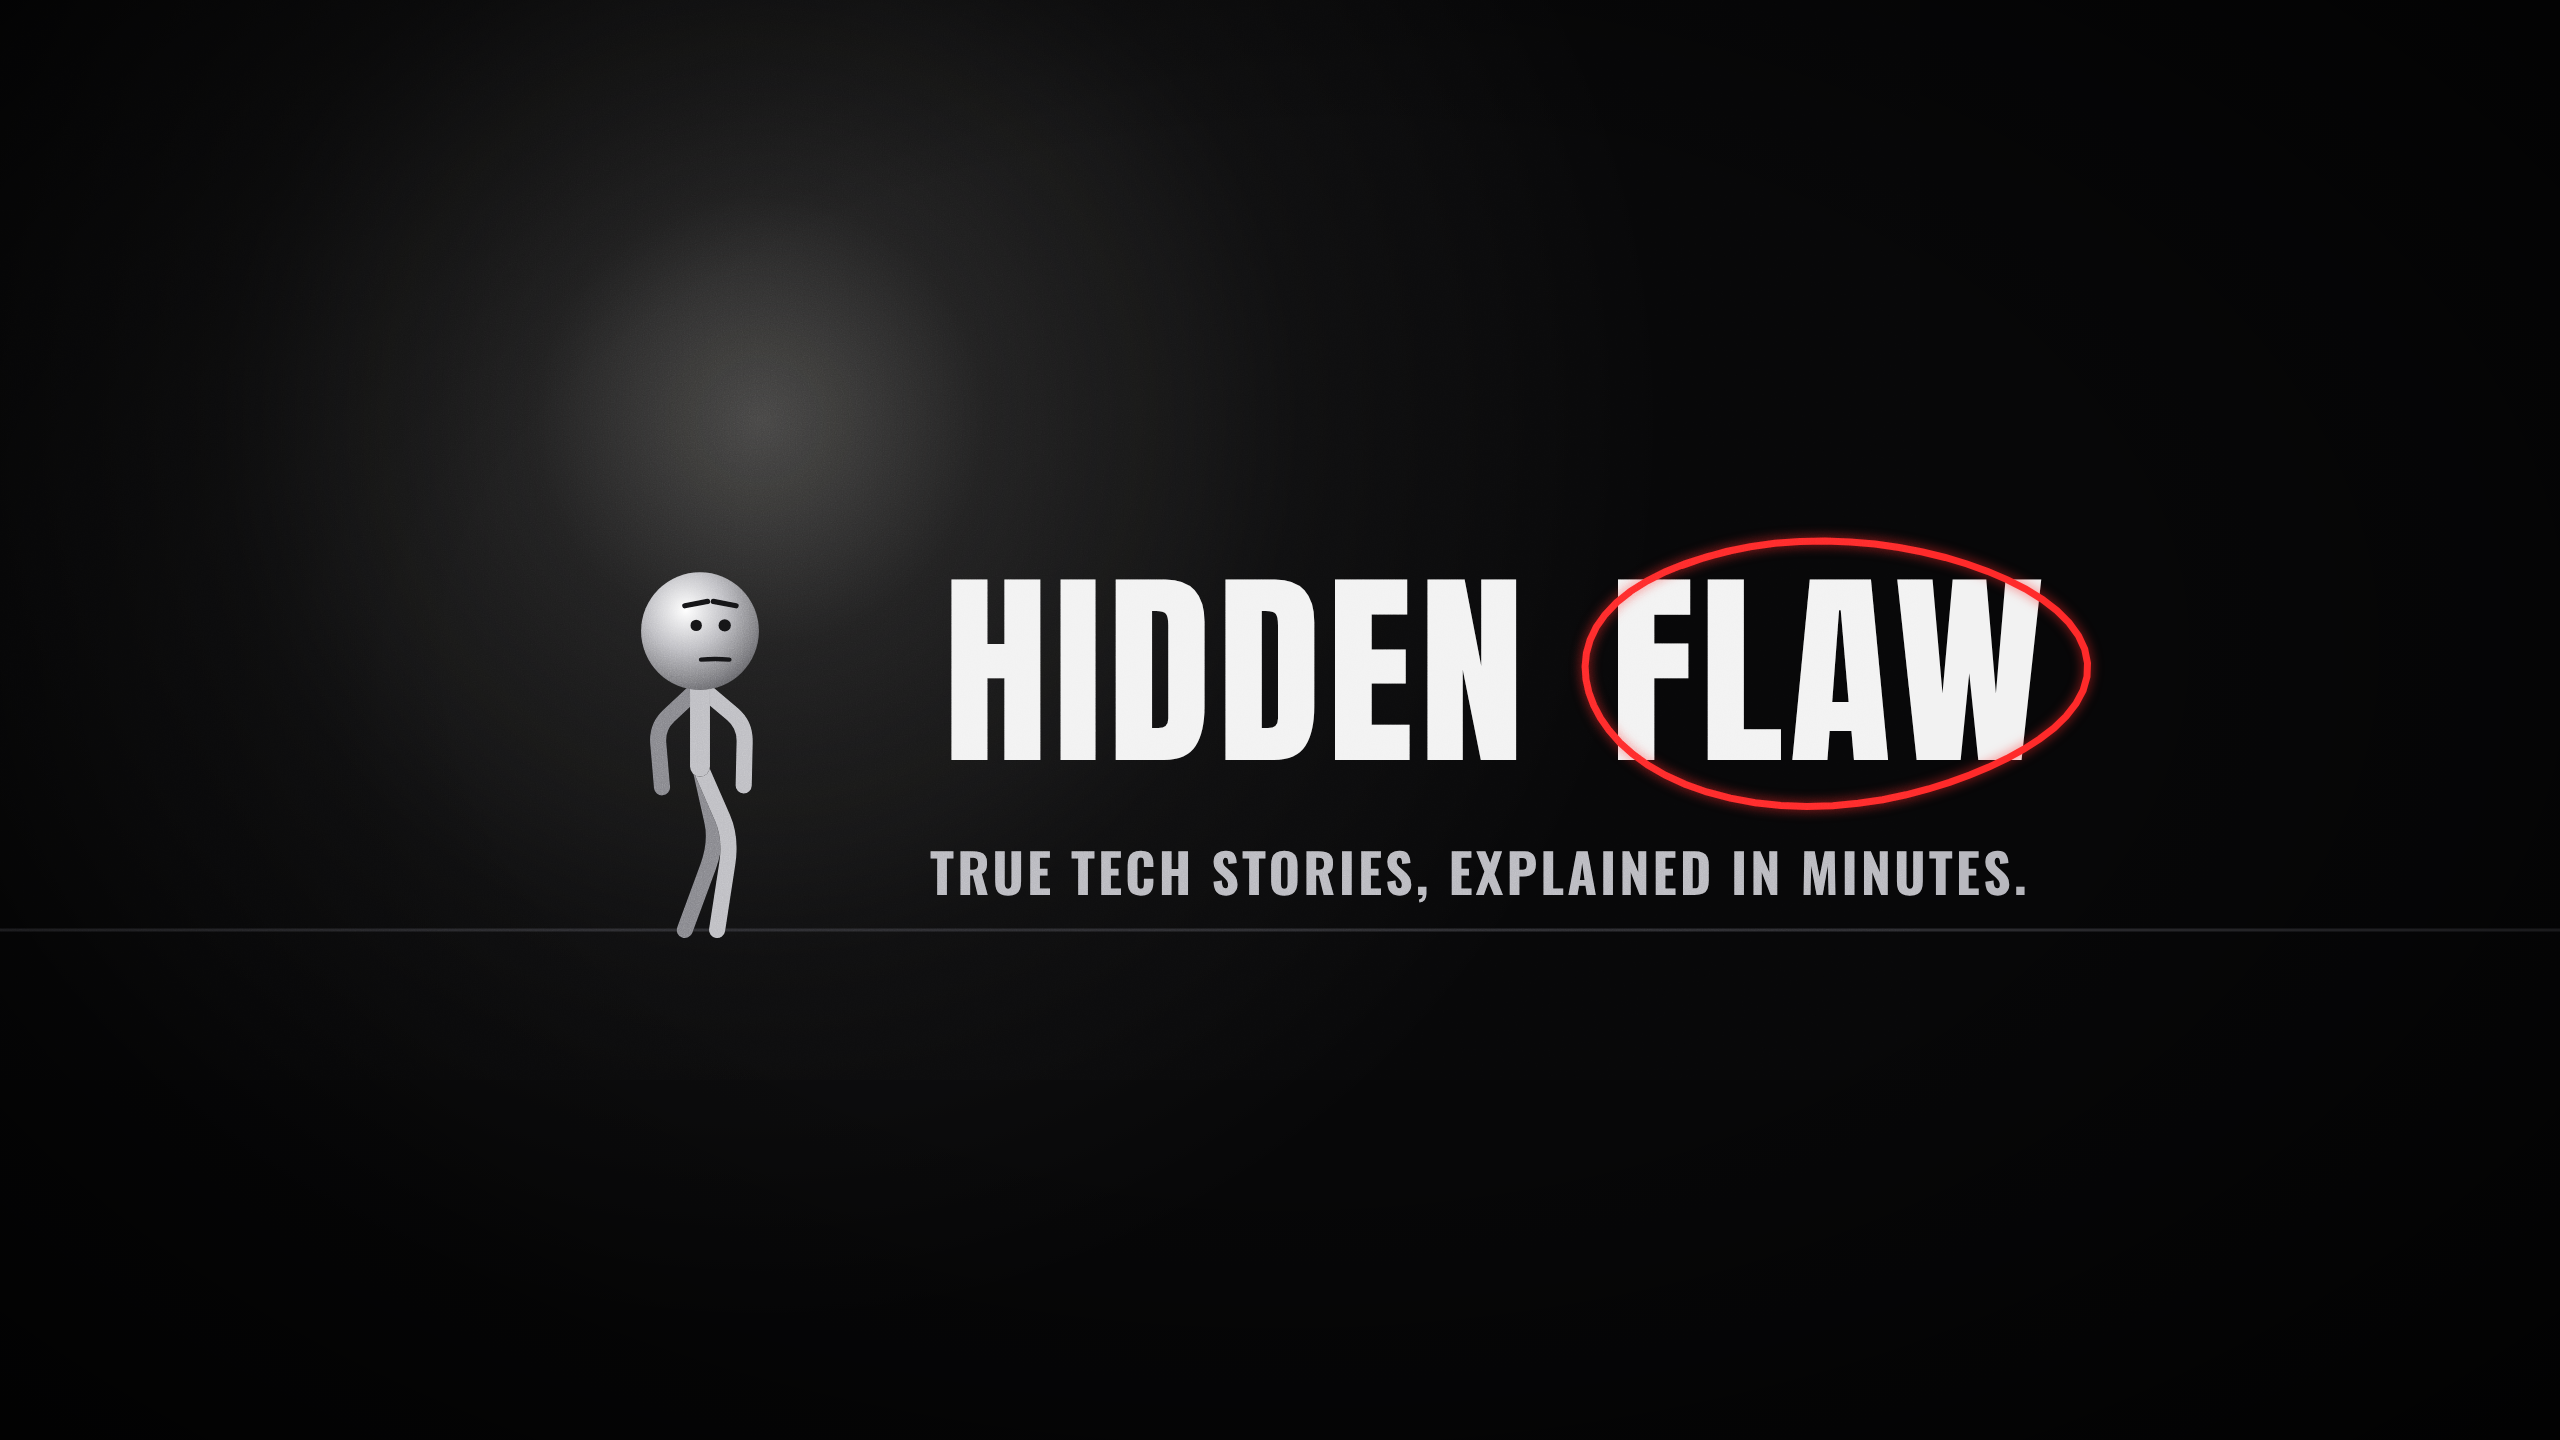
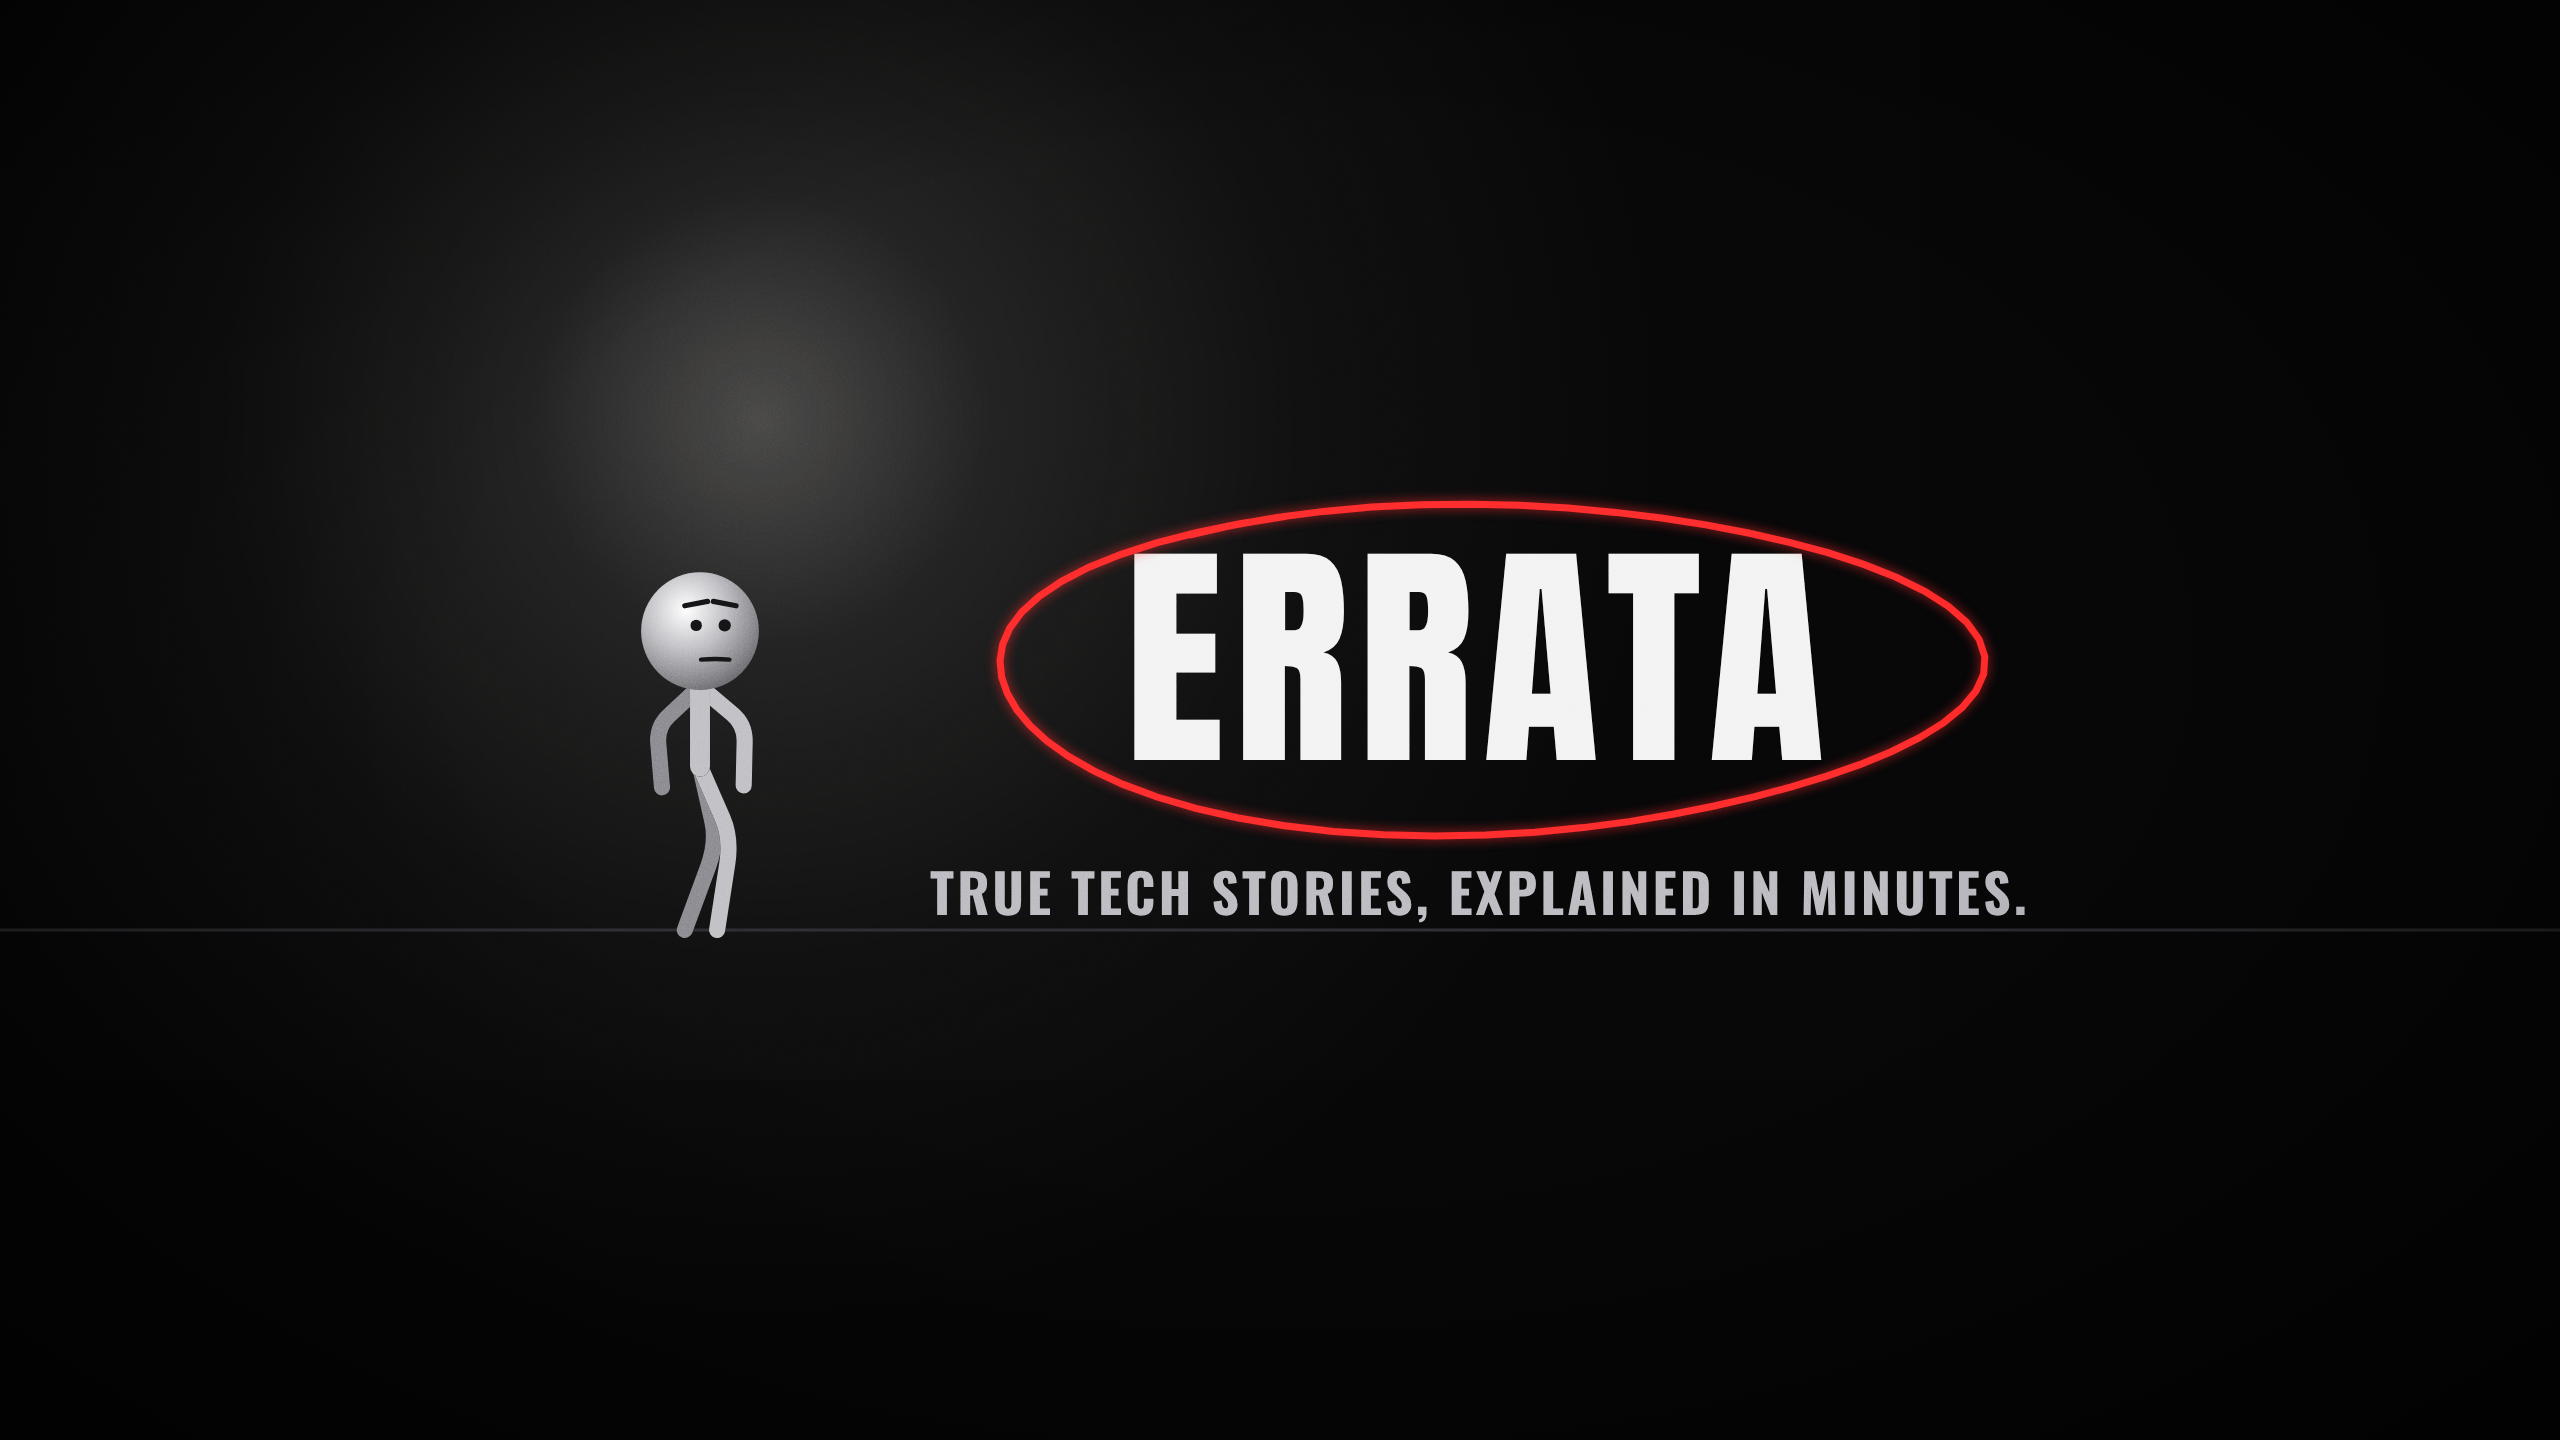
Rebrand Hidden Flaw -> Errata (@ErrataStories): @HiddenFlawFiles already uses the name in the same niche
New banner (ERRATA circled in red), channel description, keywords, prompts, policy pages and docs.

Changed region(s): [[0.3438, 0.3438, 0.8438, 0.6562]]

diff --git a/film/src/films/brand/Brand.tsx b/film/src/films/brand/Brand.tsx
@@ -6,9 +6,9 @@ import {LookFx} from '../../components/LookFx';
 import {Hero} from '../../components/Hero';
 import {Glow, Marker} from '../../components/Primitives';
 
-// Channel branding for "Hidden Flaw" plus the per-video thumbnail, all in the documentary look.
+// Channel branding for "Errata" plus the per-video thumbnail, all in the documentary look.
 // Render stills at frame 30 (markers are fully drawn by then).
-export const CHANNEL = {name: 'HIDDEN FLAW', tagline: 'True tech stories, explained in minutes.'};
+export const CHANNEL = {name: 'ERRATA', tagline: 'True tech stories, explained in minutes.'};
 
 // Each exported component calls applyLook() first: children (and their LOOK fonts) are created
 // by the caller before Frame itself renders.
@@ -71,14 +71,11 @@ export const Banner: React.FC = () => {
       <Glow x={760} y={420} r={900} color={C.lamp} opacity={0.35} />
       <line x1={0} x2={2560} y1={930} y2={930} stroke="#2C2C30" strokeWidth={3} />
       <Hero x={700} y={930} scale={0.95} pose="stand" brow={0.4} mouth={-0.1} />
-      <text x={1530} y={760} textAnchor="end" fontFamily={LOOK.display} fontSize={210} fill={C.white} letterSpacing={6}>
-        HIDDEN
+      <text x={1480} y={760} textAnchor="middle" fontFamily={LOOK.display} fontSize={240} fill={C.white} letterSpacing={10}>
+        {CHANNEL.name}
       </text>
-      <text x={1830} y={760} textAnchor="middle" fontFamily={LOOK.display} fontSize={210} fill={C.white} letterSpacing={6}>
-        FLAW
-      </text>
-      <Marker x={1830} y={672} rx={250} ry={132} from={0} seed={2} />
-      <text x={1480} y={895} textAnchor="middle" fontFamily={LOOK.font} fontWeight={700} fontSize={54} fill="#B8B8BE" letterSpacing={3}>
+      <Marker x={1480} y={668} rx={490} ry={165} from={0} seed={2} />
+      <text x={1480} y={915} textAnchor="middle" fontFamily={LOOK.font} fontWeight={700} fontSize={54} fill="#B8B8BE" letterSpacing={3}>
         {CHANNEL.tagline.toUpperCase()}
       </text>
     </Frame>

diff --git a/tools/branding.py b/tools/branding.py
@@ -1,4 +1,4 @@
-"""Hidden Flaw channel branding: avatar + banner images, channel description and keywords.
+"""Errata channel branding: avatar + banner images, channel description and keywords.
 
 The images are drawn by the film project itself (film/src/films/brand/Brand.tsx: Avatar, Banner), so
 they match the videos: near-black, grey clay figure, one red hand-drawn marker circle.
@@ -17,16 +17,18 @@ ROOT = Path(__file__).resolve().parents[1]
 OUT = ROOT / "assets/branding"
 FILM = ROOT / "film"
 
-NAME = "Hidden Flaw"
+NAME = "Errata"
+HANDLE = "ErrataStories"
 DESCRIPTION = (
     "True tech stories, explained in minutes.\n\n"
-    "Hidden Flaw tells the real stories behind famous machines, bugs, hacks and engineering disasters, "
-    "and the one flaw that changed everything. How Enigma was broken. How a single worm took down the "
-    "early internet. Why a machine built to heal ended up hurting people.\n\n"
+    "Errata: a list of mistakes, found after the fact. These are the real stories behind "
+    "famous machines, bugs, hacks and engineering disasters, and the one flaw that changed everything. "
+    "How Enigma was broken. How a single worm took down the early internet. Why a machine built to heal "
+    "ended up hurting people.\n\n"
     "Short animated documentaries, about 2 to 3 minutes each, with sources in every description.\n\n"
     "Every system has a flaw. Go looking for it."
 )
-KEYWORDS = ('"Hidden Flaw" "tech history" "tech documentary" "true tech stories" "computer history" '
+KEYWORDS = ('"Errata" "tech history" "tech documentary" "true tech stories" "computer history" '
             '"engineering disasters" cybersecurity hacking "famous bugs" cryptography "explained in minutes"')
 
 
@@ -53,7 +55,7 @@ def apply():
     bs.setdefault("image", {})["bannerExternalUrl"] = banner_url
     yt.channels().update(part="brandingSettings", body={"id": ch["id"], "brandingSettings": bs}).execute()
     print(f"channel {ch['id']}: banner, description and keywords set. Now in YouTube Studio: rename the "
-          f"channel to {NAME!r}, pick a handle, and upload assets/branding/avatar.png as the picture.")
+          f"channel to {NAME!r}, set the handle @{HANDLE}, and upload assets/branding/avatar.png as the picture.")
 
 
 if __name__ == "__main__":

diff --git a/src/yt_auto/film.py b/src/yt_auto/film.py
@@ -30,7 +30,7 @@ VOICE_AT = 20                # narration starts at this frame in every film (see
 TARGET_LUFS = -14.2          # YouTube plays at -14; stay a hair under
 PEAK_LIMIT = 0.84            # alimiter linear limit (~ -1.5 dBFS) so AAC overshoot stays under -1 dB
 MIN_SPEECH = 0.90            # share of script words Whisper must hear in the final mix (rule says 95%)
-CHANNEL = "Hidden Flaw"
+CHANNEL = "Errata"
 DISCLOSURE = "Animation, music and sound effects are made in code. The narration is a synthetic voice."
 
 DEFAULTS = {"dir": "film", "voice_python": "film/tools/voice/.venv/bin/python",

diff --git a/film/CLAUDE.md b/film/CLAUDE.md
@@ -145,7 +145,7 @@ Extract a frame every 2 s into contact sheets plus full-res close-ups of every r
 5. Fade to black.
 
 ## Working conventions
-- **Channel: Hidden Flaw** ("True tech stories, explained in minutes."). This folder is `film/` inside the yt-auto repo (`~/my-film` links here). yt-auto's film builder (`src/yt_auto/film.py`) writes the script, voices it, has Claude Code direct the scenes from this file, renders, masters and uploads. Titles are always "<Subject> Explained in Under <N> Minutes"; descriptions are summary, sources, disclosure, hashtags (built in code).
+- **Channel: Errata** ("True tech stories, explained in minutes."). This folder is `film/` inside the yt-auto repo (`~/my-film` links here). yt-auto's film builder (`src/yt_auto/film.py`) writes the script, voices it, has Claude Code direct the scenes from this file, renders, masters and uploads. Titles are always "<Subject> Explained in Under <N> Minutes"; descriptions are summary, sources, disclosure, hashtags (built in code).
 - Branding and thumbnails: `src/films/brand/Brand.tsx` (Avatar, Banner, Thumbnail compositions).
 - Each film is its own Composition registered in `src/Root.tsx`, with its own folder in `src/films/<film-name>/`.
 - Shared pieces (Hero, Shadow, Letterbox, DayCounter, NarratorText, Glow, WobblyShape, TitleCard, CityScroll) live in `src/components/` and are reused across films.

diff --git a/src/yt_auto/prompts/qa_film_vision.md b/src/yt_auto/prompts/qa_film_vision.md
@@ -1,5 +1,5 @@
 You are the visual QA checker for a finished 2-3 minute YouTube film (1920x1080, shown here
-scaled to 540 wide) on the channel "Hidden Flaw". The look is deliberate: near-black grey world,
+scaled to 540 wide) on the channel "Errata". The look is deliberate: near-black grey world,
 grey clay stick figures with big round heads, film grain, heavy vignette, thin black letterbox bars,
 ONE red accent colour (#FF2A2A) for markers, the glowing red-outlined "Shadow" figure, errors and key
 words. Text is white condensed caps (narrator phrases top centre) or red headlines. The last 12

diff --git a/src/yt_auto/prompts/research_film.md b/src/yt_auto/prompts/research_film.md
@@ -1,4 +1,4 @@
-You plan topics for "Hidden Flaw", a YouTube channel of 2-3 minute animated dark-documentary films.
+You plan topics for "Errata", a YouTube channel of 2-3 minute animated dark-documentary films.
 Each film tells ONE true tech story: a machine, system, bug, hack, disaster or invention, and the flaw,
 trick or idea that decided its fate (e.g. how Enigma was broken, the Morris worm, the Therac-25, the
 Y2K scramble, the Apollo 11 alarms). Calm narrator, stick-figure animation, real sources cited.

diff --git a/src/yt_auto/prompts/film_writer.md b/src/yt_auto/prompts/film_writer.md
@@ -1,4 +1,4 @@
-You write the narration for one film on the YouTube channel "Hidden Flaw": 2-3 minute animated
+You write the narration for one film on the YouTube channel "Errata": 2-3 minute animated
 dark-documentary films that tell TRUE tech stories (history of computing, security, engineering
 disasters, famous bugs, hacks, machines, the people behind them). Stick-figure animation, one calm
 British narrator, one red accent colour. Every film is about a system and the flaw, trick or idea

diff --git a/docs/ARCHITECTURE.md b/docs/ARCHITECTURE.md
@@ -1,6 +1,6 @@
 # yt-auto Architecture (format-agnostic)
 
-Saved 2026-11-22. This is the pipeline behind the **Hidden Flaw** channel (formerly Kernel Kids Shorts)
+Saved 2026-11-22. This is the pipeline behind the **Errata** channel (formerly Kernel Kids Shorts; handle @ErrataStories)
 (`~/projects/yt-auto`, github.com/aliasgharab/yt-auto). It is **paused**. Use this doc to
 restart it with a different video style (this Remotion film style, long-form, or a new Shorts style).
 

diff --git a/film/YT-AUTO-ARCHITECTURE.md b/film/YT-AUTO-ARCHITECTURE.md
@@ -1,6 +1,6 @@
 # yt-auto Architecture (format-agnostic)
 
-Saved 2026-11-22. This is the pipeline behind the **Hidden Flaw** channel (formerly Kernel Kids Shorts)
+Saved 2026-11-22. This is the pipeline behind the **Errata** channel (formerly Kernel Kids Shorts; handle @ErrataStories)
 (`~/projects/yt-auto`, github.com/aliasgharab/yt-auto). It is **paused**. Use this doc to
 restart it with a different video style (this Remotion film style, long-form, or a new Shorts style).
 

diff --git a/PRIVACY.md b/PRIVACY.md
@@ -1,6 +1,6 @@
-# Privacy policy: Hidden Flaw Uploader
+# Privacy policy: Errata Uploader
 
-Hidden Flaw Uploader is a private tool that the owner of the Hidden Flaw YouTube channel uses to upload
+Errata Uploader is a private tool that the owner of the Errata YouTube channel uses to upload
 and schedule that channel's own videos and to read the channel's own analytics.
 
 - It is used only by the channel owner, with the owner's own Google account. It has no other users.

diff --git a/docs/privacy.md b/docs/privacy.md
@@ -1,6 +1,6 @@
-# Privacy policy: Hidden Flaw Uploader
+# Privacy policy: Errata Uploader
 
-Hidden Flaw Uploader is a private tool that the owner of the Hidden Flaw YouTube channel uses to upload
+Errata Uploader is a private tool that the owner of the Errata YouTube channel uses to upload
 and schedule that channel's own videos and to read the channel's own analytics.
 
 - It is used only by the channel owner, with the owner's own Google account. It has no other users.

diff --git a/TERMS.md b/TERMS.md
@@ -1,5 +1,5 @@
-# Terms of service: Hidden Flaw Uploader
+# Terms of service: Errata Uploader
 
-This is a private tool for uploading videos to the Hidden Flaw YouTube channel. Only the channel owner uses it.
+This is a private tool for uploading videos to the Errata YouTube channel. Only the channel owner uses it.
 It is provided as-is, with no warranty. Use of YouTube through it is subject to the YouTube Terms of Service
 (https://www.youtube.com/t/terms).
